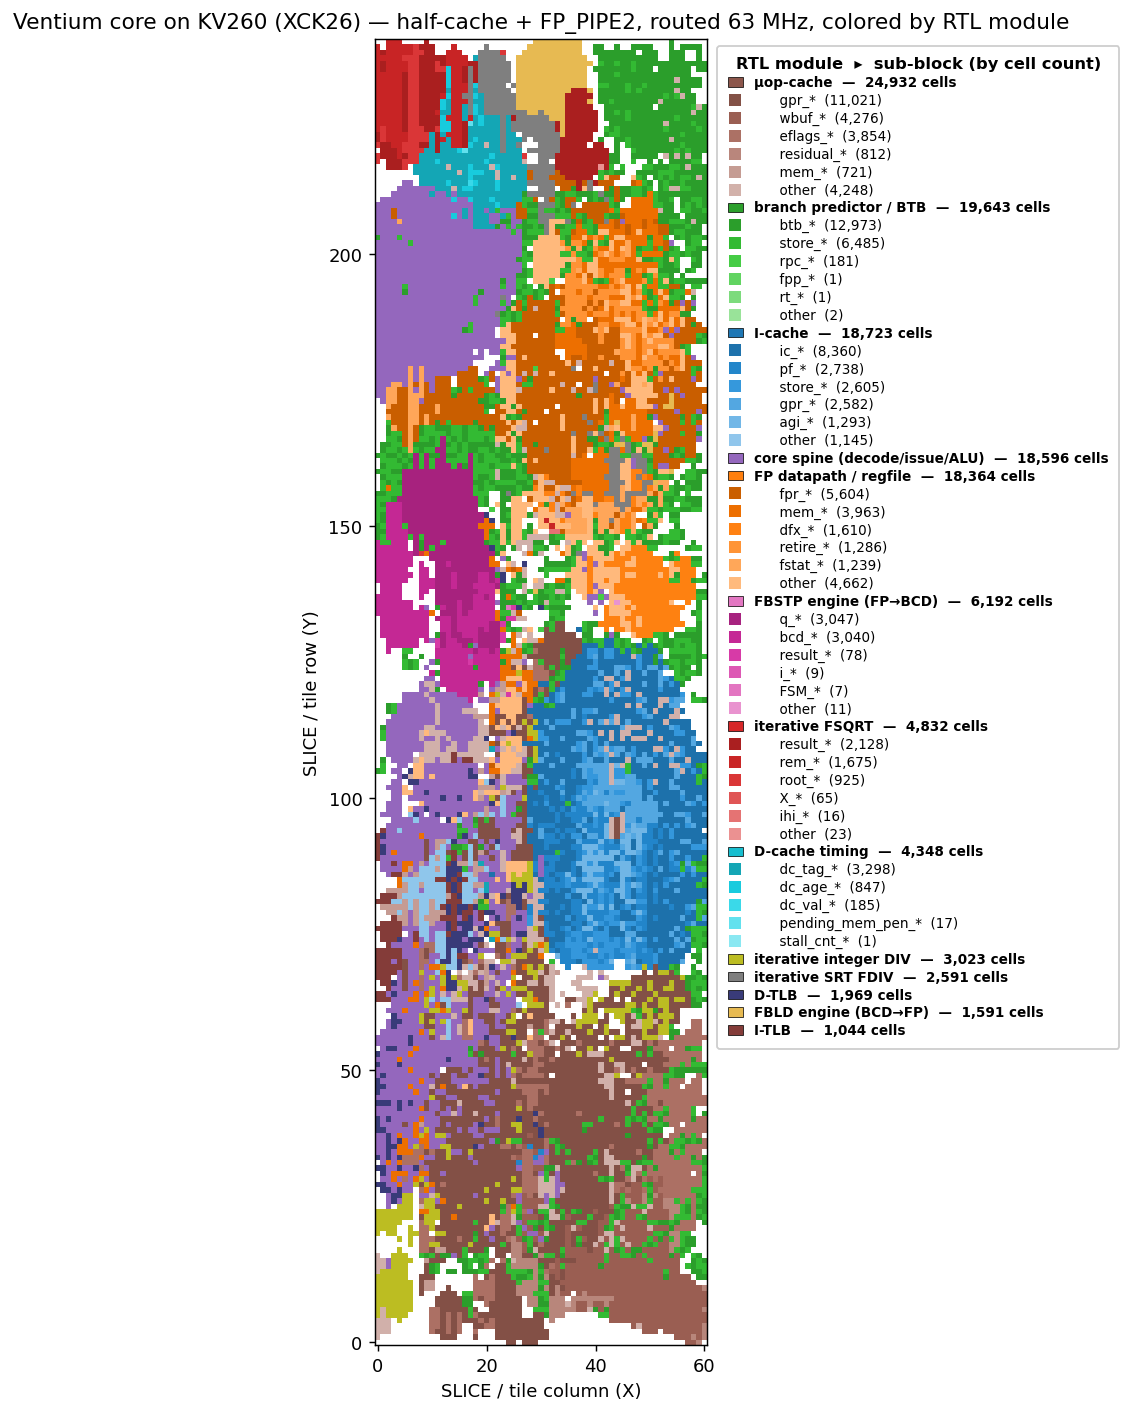
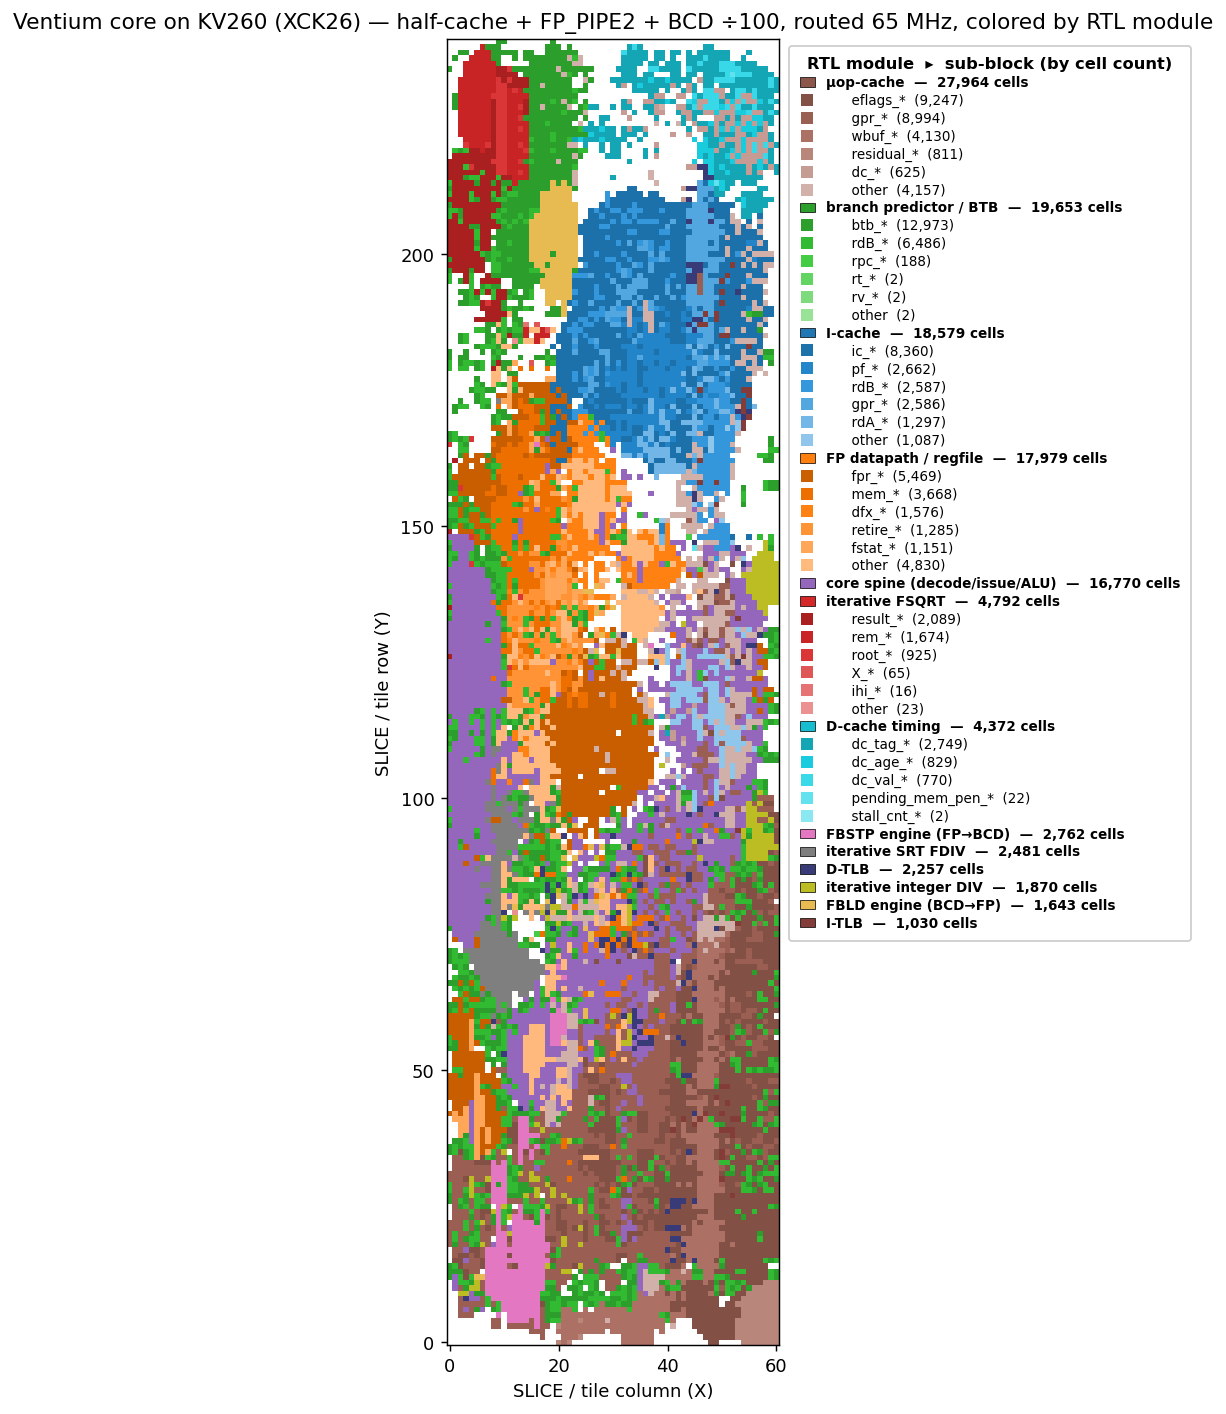
fpga: BCD step ÷100 (not two chained ÷10) — half-cache K26 63.0 -> 65.3 MHz
After +VEN_FP_PIPE2 the FBSTP BCD engine (u_bcd) was the worst path: the per-clock step ran two CHAINED divide-by-10. Compute ONE divide-by-100 and take the two low digits from q%100 (a 7-bit extract): bit-exact + cycle-neutral (make verify-bcd 40k PASS; make verify default 77/77 GREEN; change is inside ven_bcd, only used under +VEN_BCD_ITER -> default untouched).

Result (half-cache+FP_PIPE2, xck26, 15ns): synth 78.4->80.6 MHz, routed 63.0->65.3 MHz (ExtraNetDelay_high). New worst path = route-bound uopcache fill->front-end cluster (store_bmap->eip/ic_age, placement-variable 45-65; the P0-12 floorplan case). Adds FANOUT_REPL knob (tried, hurt; kept). Device view + README + fpga-synthesis.md + Sphinx updated.

Changed region(s): [[0.0, 0.0, 0.9894, 0.9958], [0.8348, 0.1245, 0.9276, 0.1556], [0.2473, 0.4356, 0.2783, 0.529]]

diff --git a/README.md b/README.md
@@ -136,7 +136,7 @@ regression-tested by `t_endbr`) and two QEMU-golden producer-fidelity bugs
 ## FPGA synthesis (KV260)
 
 The core + FPU are fully synthesizable and place-and-route cleanly out-of-context on
-the KV260 (**XCK26**, Zynq UltraScale+ ZU5EV). The routed placement of the 63 MHz
+the KV260 (**XCK26**, Zynq UltraScale+ ZU5EV). The routed placement of the 65 MHz
 half-cache build, every leaf cell colored by its RTL module (luminance = sub-block):
 
 ![Ventium core placed on the KV260 (XCK26), colored by RTL module](docs/fpga-device-view.png)
@@ -147,16 +147,20 @@ Headline OOC `core` results (`xck26-sfvc784-2LV-c`, `+VTM_NO_DPI`, 15 ns target)
 |---|---:|---:|---:|---:|---:|---:|---|
 | `+VEN_UOPCACHE` (µop-cache, 8 KB L1s) | 79.4k (68%) | 25.6k | 40 | 31 | — | 51.7 MHz | FADD commit cone |
 | `+VEN_CACHE_HALF` (4 KB L1s) | 78.0k (67%) | 25.6k | 40 | 31 | 59.4 | 52.6 MHz | FADD `fpp→fpr` cone |
-| **`+VEN_FP_PIPE2`** (2-stage FADD commit) | 76.7k (65%) | 25.8k | 40 | 31 | 78.4 | **63.0 MHz** | `u_bcd` (FBSTP) engine |
+| `+VEN_FP_PIPE2` (2-stage FADD commit) | 76.7k (65%) | 25.8k | 40 | 31 | 78.4 | 63.0 MHz | `u_bcd` (FBSTP) engine |
+| **+ BCD ÷100 step** (`ven_bcd`) | 76.6k (65%) | 25.8k | 40 | 31 | 80.6 | **65.3 MHz** | µop-cache fill→front-end |
 
-Two architectural walls, both broken. The **single-cycle x86 byte-window decoder**
-(`u_icache` MUXF cluster) — the µop-cache deletes it (predecode-on-fill, slot reads),
-the first config to route legally. And the **latency-1 ~80-level FADD deferred-commit
-cone** (`fpp → fx_round_pack → fpr`): `+VEN_FP_PIPE2` splits it across the FP
-scoreboard's existing 3-cycle latency window (the result still publishes at issue+lat),
+Three architectural walls, broken in turn. (1) The **single-cycle x86 byte-window
+decoder** (`u_icache` MUXF cluster) — the µop-cache deletes it (predecode-on-fill, slot
+reads), the first config to route legally. (2) The **latency-1 ~80-level FADD
+deferred-commit cone** (`fpp → fx_round_pack → fpr`): `+VEN_FP_PIPE2` splits it across the
+FP scoreboard's existing 3-cycle latency window (the result still publishes at issue+lat),
 so it is **cycle-safe** — `make verify` GREEN, the M5 FP cycle bands held, default build
-byte/cycle-identical (`make verify-fppipe2`). That clears the **60 MHz** target on the
-K26 (63 MHz); the worst path is now the rare BCD/FBSTP engine.
+byte/cycle-identical (`make verify-fppipe2`). (3) The **FBSTP BCD engine** (`u_bcd`): one
+÷100 per step instead of two chained ÷10 halves its cone — bit-exact + cycle-neutral
+(`make verify-bcd`). That takes the K26 to **65.3 MHz** (`ExtraNetDelay_high`); the wall is
+now the µop-cache fill→front-end cluster (route-bound — the diffuse-congestion case the
+docs flag for in-context floorplanning).
 
 📄 **Full results, device views, congestion maps, the ZU15EG + half-cache + FP_PIPE2
 experiments, and methodology:** [`docs/fpga-synthesis.md`](docs/fpga-synthesis.md) ·

diff --git a/docs/fpga-synthesis.md b/docs/fpga-synthesis.md
@@ -205,3 +205,19 @@ all new logic is under `ifdef VEN_FP_PIPE2`. Reproduce: `STAGE=synth FP_PIPE2=1`
 `STAGE=pnr FP_PIPE2=1 STRAT=fp2_timingopt PLACE_DIR=ExtraTimingOpt ROUTE_DIR=Explore vivado
 -mode batch -source fpga/scripts/apr_hc_pnr.tcl`; cycle-safety via `make verify-fppipe2`.
 
+#### Next worst path: the BCD step (÷100, not two ÷10) → 65.3 MHz
+
+With the FADD cone gone, the `u_bcd` engine (FBSTP, FP→packed-BCD) becomes the worst path:
+its per-clock step ran **two chained divide-by-10** (`q/10` then `q1/10`), ~54 levels / ~41
+CARRY8 in series. Computing **one divide-by-100** instead and taking the two low digits from
+`q%100` (a 0..99 value → a 7-bit extract) halves that cone — **bit-exact and cycle-neutral**
+(same 2-digits/clock cadence, `make verify-bcd` 40 k vectors). Synth rises **78.4 → 80.6 MHz**
+and the binder moves to the FP_PIPE2 stage-1 front (`fpp → fpp2_s1`). Routed, with
+`ExtraNetDelay_high` placement (the right placer once the wall is route-bound), the half-cache
+build reaches **65.3 MHz** — the worst path now the **µop-cache fill → front-end cluster**
+(`store_bmap → eip`/`ic_age`/`store_slots`, 64–73 % routing). That cluster is route-bound and
+**placement-variable** (45–65 MHz across directives; `ExtraTimingOpt` and forced fanout
+replication both place it worse) — the diffuse front-end congestion that P0-12 (in-context
+floorplan) targets, not a single combinational cone. Reproduce: `STAGE=pnr FP_PIPE2=1
+STRAT=fp2b_netdelay PLACE_DIR=ExtraNetDelay_high ROUTE_DIR=Explore`; `make verify-bcd`.
+

diff --git a/docs/sphinx/microarch/fp-commit-pipeline.rst b/docs/sphinx/microarch/fp-commit-pipeline.rst
@@ -151,6 +151,15 @@ the 60 MHz target on the K26 — for the price of **one ``fx_pipe_t`` stage regi
 engine** (``ven_bcd``, the FBLD/FBSTP packed-decimal conversion), with the
 µop-cache fill-to-PC path just below it — both well above 60 MHz.
 
+A follow-up cycle-neutral fix takes the next worst path too: ``ven_bcd``'s per-clock
+step ran **two chained divide-by-10**; computing **one divide-by-100** and extracting
+the two low digits from ``q % 100`` (a 0..99 value) halves that cone, bit-exact
+(``make verify-bcd``). Synthesis rises to **80.6 MHz** and the routed half-cache build
+to **65.3 MHz** (``ExtraNetDelay_high`` placement). The remaining wall is the
+**route-bound µop-cache fill → front-end cluster** (``store_bmap → eip``/``ic_age``),
+which is placement-variable — the diffuse front-end congestion that in-context
+floorplanning, not a single-cone fix, addresses.
+
 See :doc:`/microarch/l1-parametric` for the ``+VEN_CACHE_HALF`` geometry knob this
 build sits on, and ``docs/fpga-synthesis.md`` for the full place-and-route sweep,
 device views, and reproduction commands.
